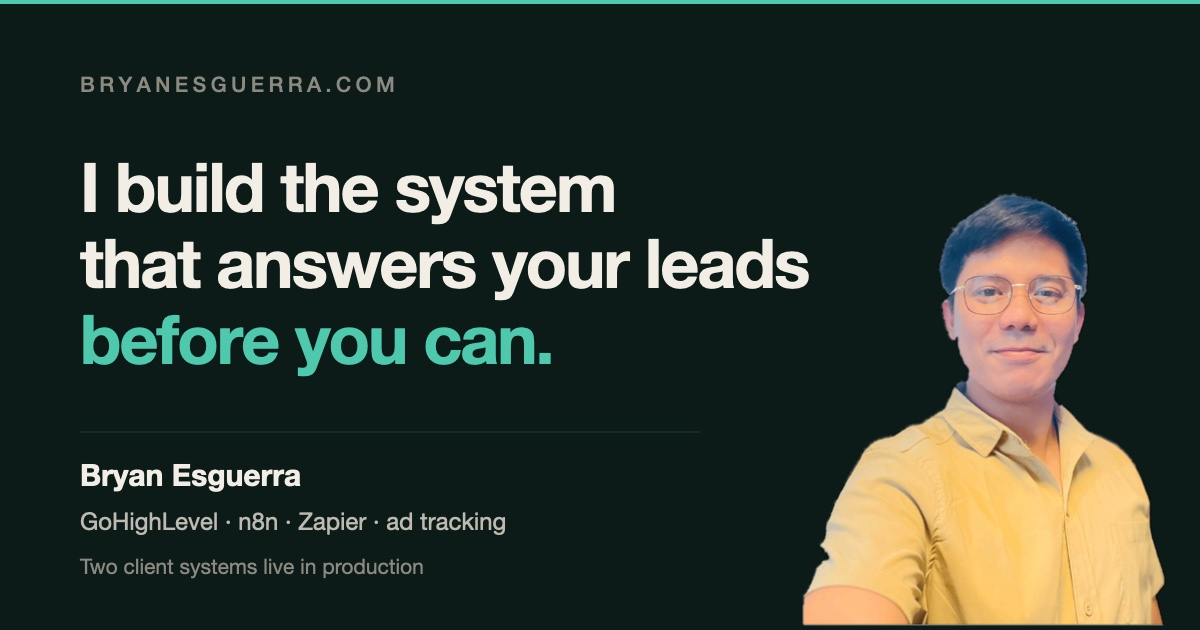
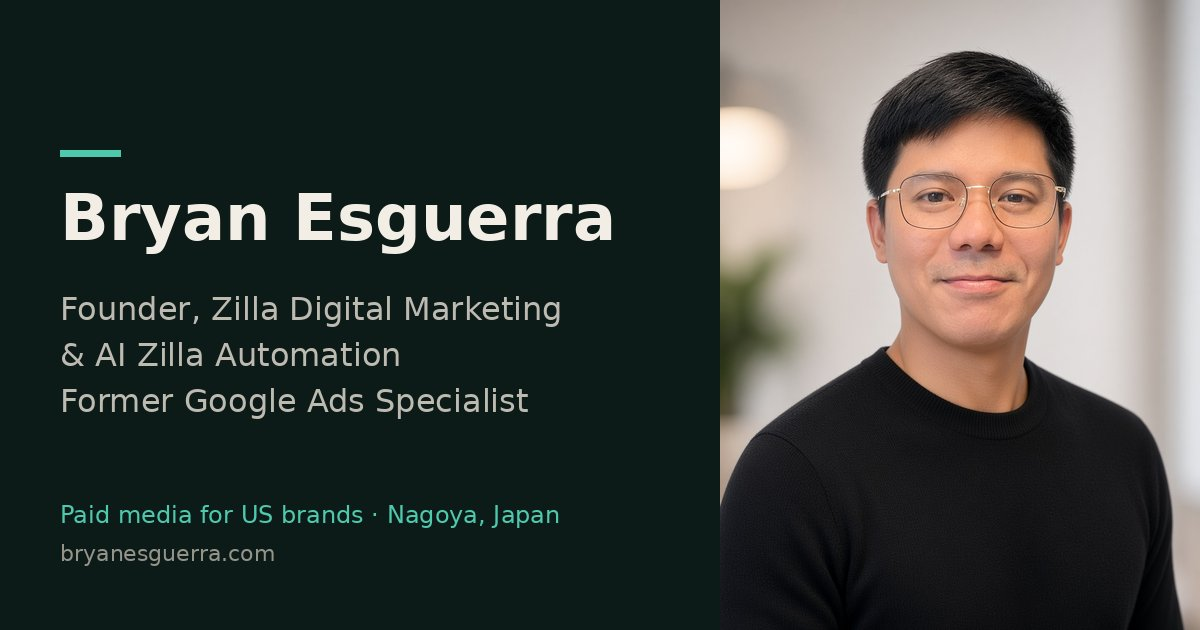
New headshot (bryan.jpg) and share card

diff --git a/index.html b/index.html
@@ -489,7 +489,7 @@
   "rate": "Projects scoped and quoted after the first call · remote",
   "caseDia": [],
   "github": "",
-  "photo": "bryan.png",
+  "photo": "bryan.jpg",
   "photoAlt": "Bryan Esguerra, senior paid media and growth marketer",
   "photoCap": "Bryan Esguerra · Founder, Zilla Digital Marketing & AI Zilla Automation · Nagoya, Japan",
   "calendar": "https://calendar.google.com/calendar/appointments/schedules/AcZssZ1lIlljuk7utCb3zp7MBN-Lk57qnGk3gugxDMIKWz6y_hZF1zDMZcXZ2nQjpQyriCsJaUL1Lggw?gv=true",
